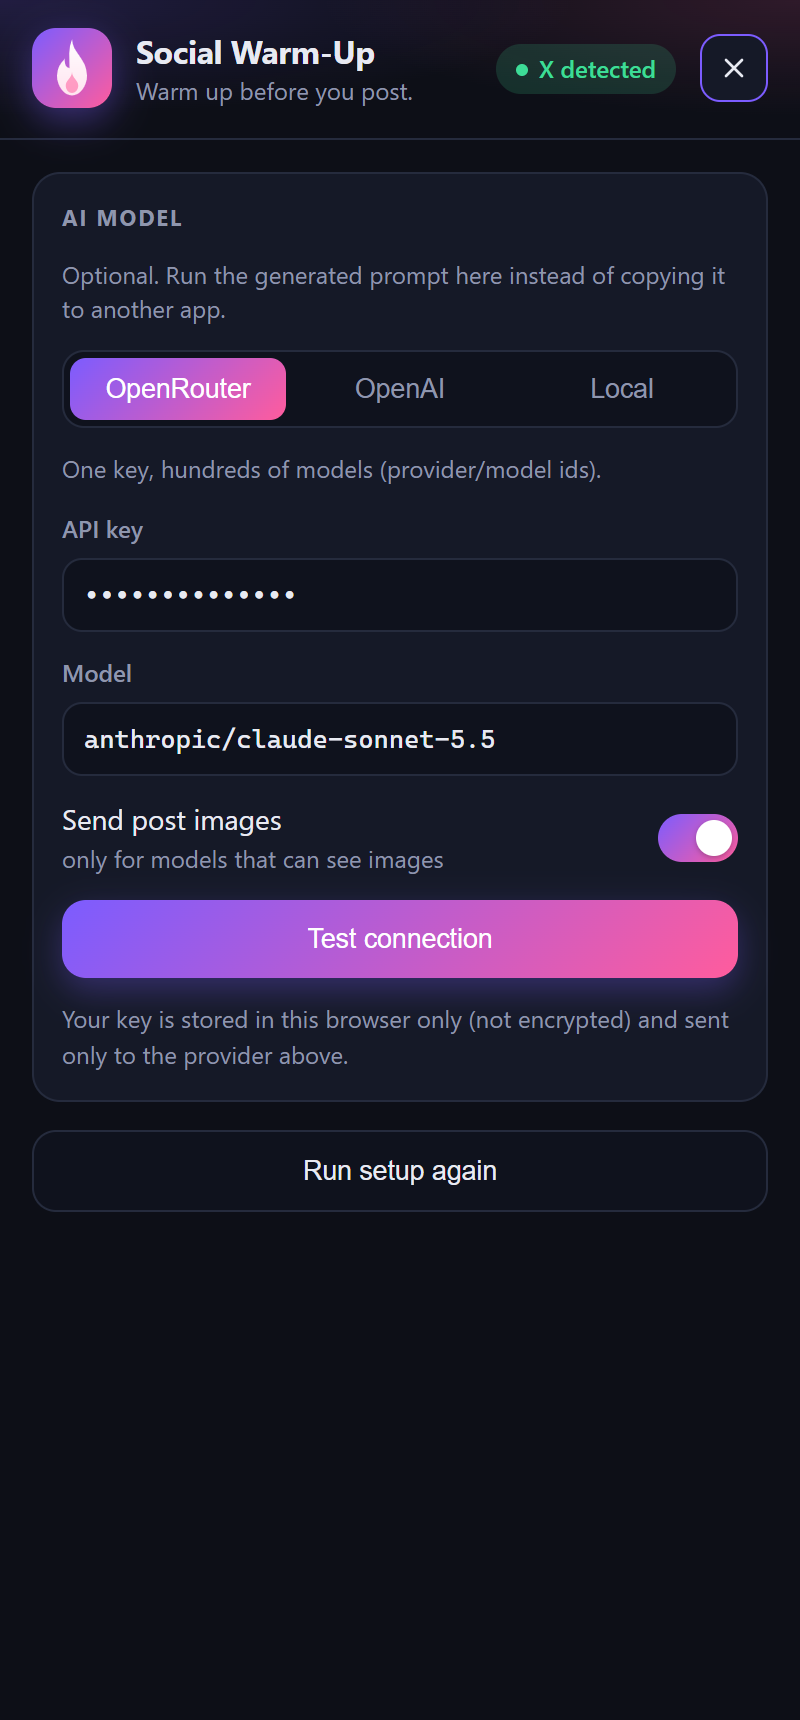
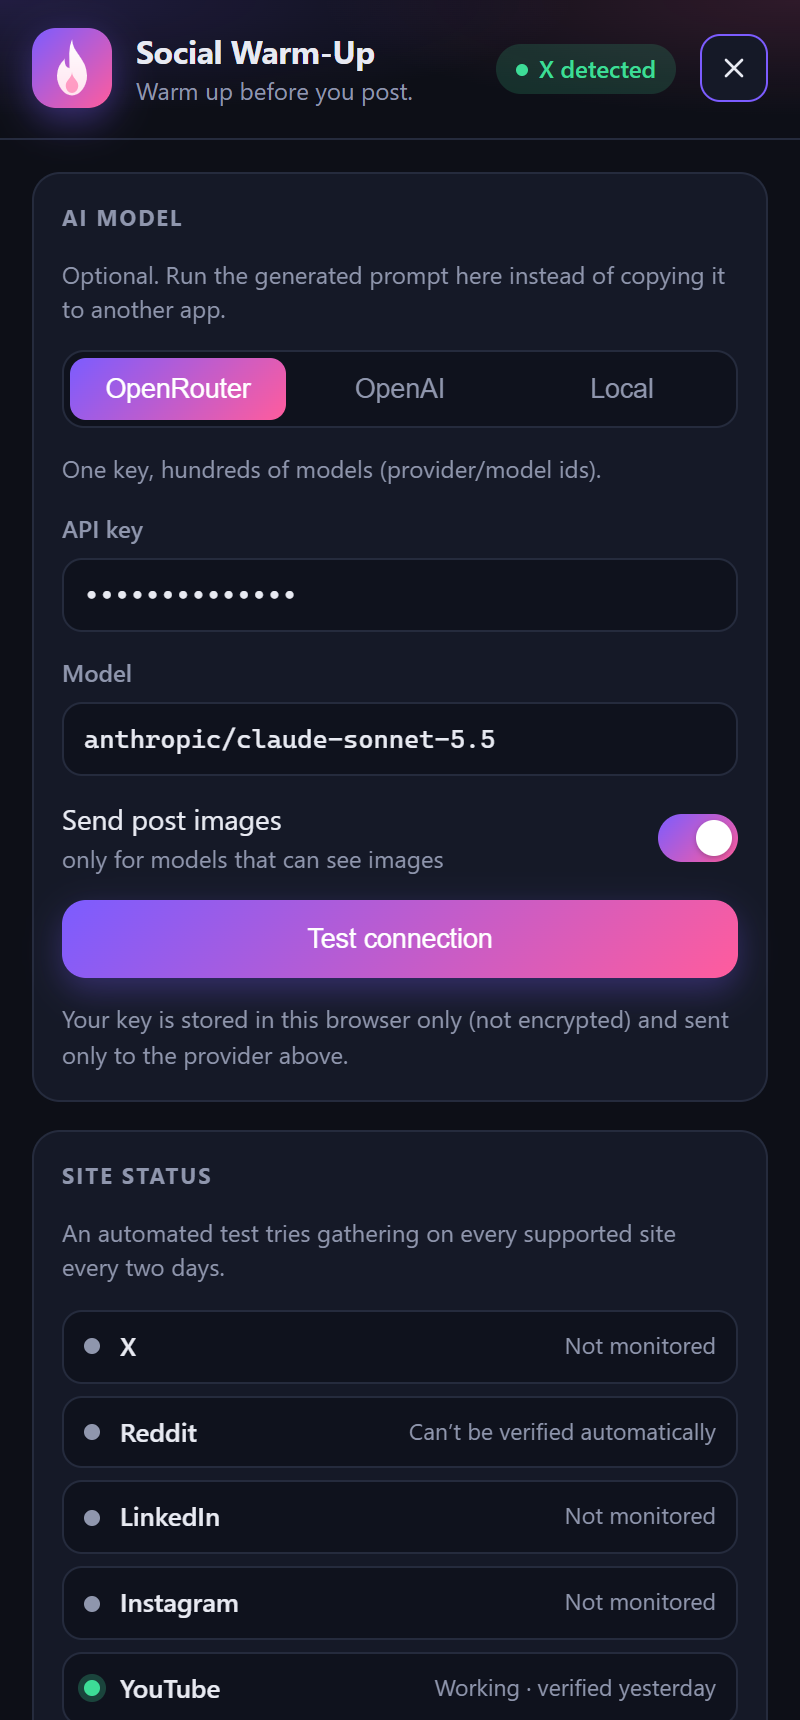
Publish scraper health and show it in the README and the extension
The workflow now publishes status.json and per-site shields badges to a
health branch. README shows live badges; the extension fetches status.json
(Site status card in the cog, warning banner when the current site is
failing). Privacy policy notes the one new public request.

diff --git a/src/app/App.tsx b/src/app/App.tsx
@@ -12,7 +12,9 @@ import { useSavedSettings, useSettings } from '../features/settings/useSettings'
 import type { Cfg } from '../features/settings/settings.model'
 import type { Saved } from '../features/gather/gather.model'
 import { Icon } from '../shared/ui/icons'
-import { platformOf, SUPPORTED_LABELS } from '../platforms/registry'
+import { HealthBanner } from '../features/health/HealthBanner'
+import { HealthCard } from '../features/health/HealthCard'
+import { platformOf, type Platform } from '../platforms/registry'
 import { useActiveTab } from '../shared/chrome/tabs'
 import logo from '../../assets/icon.svg'
 
@@ -26,10 +28,10 @@ export function App() {
   const ai = useSavedAi()
   const onboarded = useOnboarded()
   if (!settings.data || !saved.data || !ai.data || onboarded.data === undefined) return null
-  return <Shell initial={settings.data} initialAi={ai.data} onboarded={onboarded.data} saved={saved.data} tabId={tab.data?.id} platform={platformOf(tab.data?.url)?.label} />
+  return <Shell initial={settings.data} initialAi={ai.data} onboarded={onboarded.data} saved={saved.data} tabId={tab.data?.id} platform={platformOf(tab.data?.url)} />
 }
 
-type ShellProps = { initial: Cfg; initialAi: AiCfg; onboarded: boolean; saved: Saved; tabId?: number; platform?: string }
+type ShellProps = { initial: Cfg; initialAi: AiCfg; onboarded: boolean; saved: Saved; tabId?: number; platform?: Platform }
 
 function Shell({ initial, initialAi, onboarded, saved, tabId, platform }: ShellProps) {
   const setOnboarded = useSetOnboarded()
@@ -45,7 +47,7 @@ function Shell({ initial, initialAi, onboarded, saved, tabId, platform }: ShellP
       <header>
         <img className="logo" src={logo} alt="" />
         <div><h1>Social Warm-Up</h1><p>Warm up before you post.</p></div>
-        <span className={'pill ' + (supported ? 'ok' : 'bad')}>{platform ? `${platform} detected` : 'Unsupported'}</span>
+        <span className={'pill ' + (supported ? 'ok' : 'bad')}>{platform ? `${platform.label} detected` : 'Unsupported'}</span>
         {onboarded && <button className={'iconbtn' + (settingsOpen ? ' on' : '')} aria-label={settingsOpen ? 'Close settings' : 'Open settings'} title={settingsOpen ? 'Close settings' : 'AI settings'} onClick={() => setSettingsOpen((o) => !o)}>
           <Icon name={settingsOpen ? 'close' : 'settings'} />
         </button>}
@@ -58,6 +60,7 @@ function Shell({ initial, initialAi, onboarded, saved, tabId, platform }: ShellP
           <button key={v} className={view === v ? 'on' : ''} onClick={() => setView(v)}>{TABS[v]}</button>
         ))}
       </nav>
+      {!settingsOpen && <HealthBanner platform={platform?.id} />}
       {/* all tabs stay mounted so in-progress state survives tab switches */}
       <main hidden={settingsOpen || view !== 'gather'}>
         <GatherTab
@@ -76,6 +79,7 @@ function Shell({ initial, initialAi, onboarded, saved, tabId, platform }: ShellP
       </main>
       <main hidden={!settingsOpen}>
         <AiSettingsTab form={ai.form} cfg={ai.cfg} />
+        <HealthCard />
         <button className="primary stop" onClick={() => { setSettingsOpen(false); setOnboarded(false) }}>Run setup again</button>
       </main>
       </>)}

diff --git a/src/features/health/health.model.ts b/src/features/health/health.model.ts
@@ -1,0 +1,33 @@
+import type { PlatformId } from '../../platforms/registry'
+
+// published by the scraper-health workflow to the `health` branch
+export const REPO = 'yamiassu/social-warm'
+export const HEALTH_URL = `https://raw.githubusercontent.com/${REPO}/health/status.json`
+export const ISSUES_URL = `https://github.com/${REPO}/issues?q=is%3Aopen+label%3Ascraper-health`
+export const WORKFLOW_URL = `https://github.com/${REPO}/actions/workflows/scraper-health.yml`
+
+export type HealthStatus = 'passed' | 'failed' | 'blocked' | 'skipped' | 'error'
+export type SiteHealth = { status: HealthStatus; when?: string }
+export type Health = { updated: string; run?: string; sites: Partial<Record<PlatformId, SiteHealth>> }
+
+const DAY = 86_400_000
+export const STALE_DAYS = 7
+
+export function ago(iso?: string) {
+  if (!iso) return ''
+  const d = Math.floor((Date.now() - new Date(iso).getTime()) / DAY)
+  return d <= 0 ? 'today' : d === 1 ? 'yesterday' : `${d} days ago`
+}
+export const isStale = (iso?: string) => !!iso && Date.now() - new Date(iso).getTime() > STALE_DAYS * DAY
+
+// what a user should read for a site, and how worried to look
+export function describe(h?: SiteHealth): { tone: 'ok' | 'warn' | 'bad' | 'mute'; text: string } {
+  if (!h) return { tone: 'mute', text: 'No data yet' }
+  switch (h.status) {
+    case 'passed': return isStale(h.when) ? { tone: 'warn', text: `Last verified ${ago(h.when)}` } : { tone: 'ok', text: `Working · verified ${ago(h.when)}` }
+    case 'failed': return { tone: 'bad', text: `Gathering broken · checked ${ago(h.when)}` }
+    case 'blocked': return { tone: 'mute', text: 'Can’t be verified automatically' }
+    case 'skipped': return { tone: 'mute', text: 'Not monitored' }
+    default: return { tone: 'warn', text: 'Last check had no report' }
+  }
+}

diff --git a/src/app/styles.css b/src/app/styles.css
@@ -176,3 +176,15 @@ main:not([hidden]) > :nth-child(n+5) { animation-delay: .16s; }
 details.fold[open] > .code { animation: rise .28s cubic-bezier(.2, .7, .2, 1); }
 
 @media (prefers-reduced-motion: reduce) { *, *::before, *::after { animation: none !important; transition: none !important; } }
+
+/* site health */
+.banner { margin: 12px 16px 0; padding: 10px 12px; border-radius: 12px; font-size: 12.5px; line-height: 1.45;
+  background: color-mix(in srgb, var(--bad) 12%, transparent); border: 1px solid color-mix(in srgb, var(--bad) 40%, transparent); animation: rise .3s cubic-bezier(.2, .7, .2, 1); }
+.banner a, .hint a { color: var(--text); }
+.health { list-style: none; margin: 0; padding: 0; display: grid; gap: 6px; }
+.health li { display: flex; align-items: center; gap: 10px; padding: 8px 10px; border-radius: 10px; background: var(--card2); border: 1px solid var(--line); }
+.health .t { font-weight: 600; font-size: 13px; }
+.health small { margin-left: auto; color: var(--mut); font-size: 11.5px; text-align: right; }
+.dot { width: 8px; height: 8px; border-radius: 50%; flex: none; background: var(--mut); }
+.dot.ok { background: var(--ok); box-shadow: 0 0 0 3px color-mix(in srgb, var(--ok) 25%, transparent); }
+.dot.warn { background: #f5b942; } .dot.bad { background: var(--bad); box-shadow: 0 0 0 3px color-mix(in srgb, var(--bad) 25%, transparent); }

diff --git a/src/features/health/HealthCard.tsx b/src/features/health/HealthCard.tsx
@@ -1,0 +1,24 @@
+import { PLATFORMS } from '../../platforms/registry'
+import { WORKFLOW_URL, ago, describe } from './health.model'
+import { useHealth } from './useHealth'
+
+export function HealthCard() {
+  const { data, isPending, isError } = useHealth()
+  return (
+    <section className="card">
+      <h2>Site status</h2>
+      <p className="hint">An automated test tries gathering on every supported site every two days.</p>
+      {isError && <p className="hint">Status isn’t available right now (offline, or not published yet).</p>}
+      {isPending && <p className="hint">Loading…</p>}
+      {data && (
+        <ul className="health">
+          {PLATFORMS.map((p) => {
+            const d = describe(data.sites[p.id])
+            return <li key={p.id}><i className={'dot ' + d.tone} /><span className="t">{p.label}</span><small>{d.text}</small></li>
+          })}
+        </ul>
+      )}
+      {data && <p className="hint">Updated {ago(data.updated)} · <a href={WORKFLOW_URL} target="_blank" rel="noreferrer">view runs</a></p>}
+    </section>
+  )
+}

diff --git a/src/features/health/HealthBanner.tsx b/src/features/health/HealthBanner.tsx
@@ -1,0 +1,16 @@
+import { platformById, type PlatformId } from '../../platforms/registry'
+import { ISSUES_URL, describe } from './health.model'
+import { useHealth } from './useHealth'
+
+// only speaks up when the current site's last check failed, so it never nags while things work
+export function HealthBanner({ platform }: { platform?: PlatformId }) {
+  const { data } = useHealth()
+  const site = platform && data?.sites[platform]
+  if (!platform || !site || site.status !== 'failed') return null
+  return (
+    <div className="banner" role="status">
+      <b>{platformById(platform).label} gathering may be broken.</b> {describe(site).text}. The site probably changed;
+      {' '}<a href={ISSUES_URL} target="_blank" rel="noreferrer">see the status</a>.
+    </div>
+  )
+}

diff --git a/src/features/health/useHealth.ts b/src/features/health/useHealth.ts
@@ -1,0 +1,15 @@
+import { useQuery } from '@tanstack/react-query'
+import { HEALTH_URL, type Health } from './health.model'
+
+// public file on GitHub: no key, no user data sent. Offline or not published yet -> nothing is shown.
+export const useHealth = () =>
+  useQuery({
+    queryKey: ['health'],
+    staleTime: 30 * 60_000,
+    retry: false,
+    queryFn: async (): Promise<Health> => {
+      const res = await fetch(HEALTH_URL, { cache: 'no-cache' })
+      if (!res.ok) throw new Error(`health ${res.status}`)
+      return res.json()
+    },
+  })

diff --git a/README.md b/README.md
@@ -153,6 +153,11 @@ The panel runs on [TanStack Redact](https://tanstack.com/redact), a smaller Reac
 
 Sites change their markup without notice, so a [scheduled workflow](.github/workflows/scraper-health.yml) runs **every two days** (and on demand from the Actions tab). For each supported site it loads the real page, runs the actual built content script, and checks that gathering still finds well-formed posts; it also tries to read existing replies on one of them. A failing site opens (and later closes) an issue labelled `scraper-health`.
 
+[![Scraper health](https://github.com/yamiassu/social-warm/actions/workflows/scraper-health.yml/badge.svg)](https://github.com/yamiassu/social-warm/actions/workflows/scraper-health.yml)
+[![X](https://img.shields.io/endpoint?url=https%3A%2F%2Fraw.githubusercontent.com%2Fyamiassu%2Fsocial-warm%2Fhealth%2Fx.json&label=X)](https://github.com/yamiassu/social-warm/actions/workflows/scraper-health.yml) [![Reddit](https://img.shields.io/endpoint?url=https%3A%2F%2Fraw.githubusercontent.com%2Fyamiassu%2Fsocial-warm%2Fhealth%2Freddit.json&label=Reddit)](https://github.com/yamiassu/social-warm/actions/workflows/scraper-health.yml) [![LinkedIn](https://img.shields.io/endpoint?url=https%3A%2F%2Fraw.githubusercontent.com%2Fyamiassu%2Fsocial-warm%2Fhealth%2Flinkedin.json&label=LinkedIn)](https://github.com/yamiassu/social-warm/actions/workflows/scraper-health.yml) [![Instagram](https://img.shields.io/endpoint?url=https%3A%2F%2Fraw.githubusercontent.com%2Fyamiassu%2Fsocial-warm%2Fhealth%2Finstagram.json&label=Instagram)](https://github.com/yamiassu/social-warm/actions/workflows/scraper-health.yml) [![YouTube](https://img.shields.io/endpoint?url=https%3A%2F%2Fraw.githubusercontent.com%2Fyamiassu%2Fsocial-warm%2Fhealth%2Fyoutube.json&label=YouTube)](https://github.com/yamiassu/social-warm/actions/workflows/scraper-health.yml)
+
+Each run publishes its results to the `health` branch (`status.json` plus one badge file per site). The badges above read it, and **so does the extension**: the cog shows a *Site status* card, and a warning appears on the Gather tab if the site you are on is currently failing. The extension fetches that public file from GitHub; nothing about you is sent.
+
 | Site | Needs login | CI secret |
 | --- | :---: | --- |
 | Reddit | no | none |
@@ -161,7 +166,7 @@ Sites change their markup without notice, so a [scheduled workflow](.github/work
 | LinkedIn | yes | `LINKEDIN_STATE` |
 | Instagram | yes | `INSTAGRAM_STATE` |
 
-Sites that need a login are **skipped** (not failed) until you add a session. To add one:
+Statuses: **passing**, **failing** (selectors drifted), **blocked in CI** (the site walls off GitHub's datacenter IPs, e.g. Reddit; verify locally with `npm run probe`) and **not monitored** (no login secret yet). Sites that need a login are **skipped** (not failed) until you add a session. To add one:
 
 ```bash
 npm run auth -- x                       # opens Chrome: log in, press Enter in the terminal

diff --git a/PRIVACY.md b/PRIVACY.md
@@ -12,6 +12,8 @@ Social Warm-Up does not collect, transmit, sell or share any personal data. It h
 
 **Optional AI feature.** If you add an API key (OpenRouter or OpenAI) or a local model URL in Settings, pressing "Run with AI" or "Test connection" sends the generated prompt (post text, handles and image links you gathered, plus your base prompt, and the images themselves if you turn on "Send post images") directly from your browser to that provider. Nothing goes through our servers; we have none. Your key is stored in local extension storage (not encrypted) and sent only to that provider. The extension asks for permission to reach the provider host the first time you use it.
 
+**Site status.** The panel fetches one public file (`status.json`) from this project's GitHub repository (`raw.githubusercontent.com`) to show whether the automated site checks are passing. The request carries no data from you; GitHub sees your IP address like for any web request.
+
 **Permissions.** `storage` (save your settings and last result), `sidePanel` (show the panel), `scripting` (re-inject the page script into tabs that were open before installation), and host access to the supported sites (`x.com`, `twitter.com`, `www.reddit.com`, `www.linkedin.com`, `www.instagram.com`, `www.youtube.com`) to read the page and perform the actions you approve, and `pbs.twimg.com` (X's image host, to read post pictures when you enable image sending to a local model), and optional host access requested only for the AI provider you configure.
 
 **Remote code.** None. All code ships inside the extension package.
